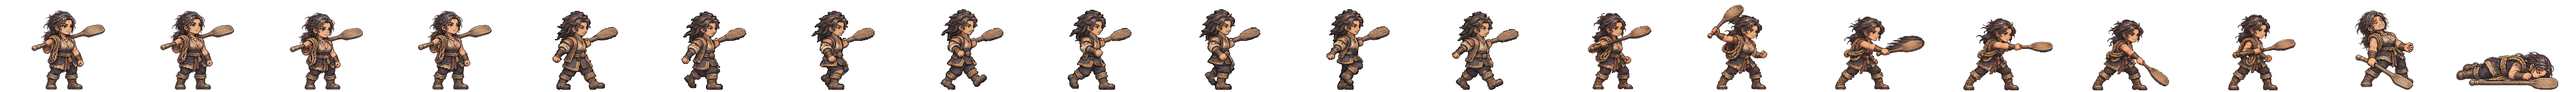
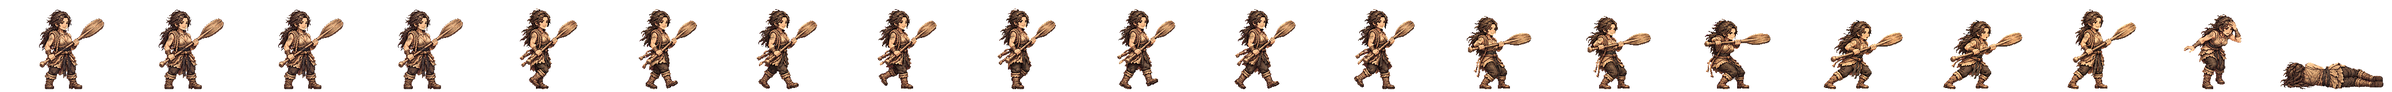
탐라 너울 새 전투 띠를 게임에 넣음(서기·걷기·나무 노 찌르기 여덟 칸·쓰러짐·밧줄 고쳐 감기)
띠 검사 합격 · 공격 끝 칸 키 138 = 서기 138 · 걷기는 머리 상자 묶기가 한 칸에서 얼굴을 잘못 잡아 얼굴 안쪽만 묶음

Claude-Session: https://claude.ai/code/session_01TRiuN7s6aDfSnaHxrkctmU

Changed region(s): [[0.0, 0.0625, 1.0, 1.0]]

diff --git a/src/realm/data/spritePx.ts b/src/realm/data/spritePx.ts
@@ -1,3 +1,3 @@
 /** public/realm/anim-px/manifest.json 의 사본 — tools/sprite-normalize.mjs 가 만든다 (손으로 고치지 말 것). 칸 [가로, 세로] · feet = 발 줄(칸 위에서 y) · bodyPx = 서 있는 몸 키 */
 import { expandManifest } from './sprite-manifest.ts'
-export const SPRITE_PX: Readonly<Record<string, { readonly cell: readonly [number, number]; readonly feet: number; readonly bodyPx: number; readonly kind: 'general' | 'soldier' | 'folk' | 'crowd'; readonly cells: number }>> = expandManifest<{ readonly cell: readonly [number, number]; readonly feet: number; readonly bodyPx: number; readonly kind: 'general' | 'soldier' | 'folk' | 'crowd'; readonly cells: number }>([{"cell":[166,128],"feet":126,"bodyPx":124,"kind":"soldier","cells":20},{"cell":[116,128],"feet":126,"bodyPx":117,"kind":"soldier","cells":20},{"cell":[127,128],"feet":126,"bodyPx":116,"kind":"soldier","cells":20},{"cell":[269,128],"feet":126,"bodyPx":126,"kind":"soldier","cells":20},{"cell":[503,128],"feet":126,"bodyPx":127,"kind":"soldier","cells":20},{"cell":[614,128],"feet":126,"bodyPx":126,"kind":"soldier","cells":20},{"cell":[200,160],"feet":156,"bodyPx":138,"kind":"general","cells":20},{"cell":[208,160],"feet":155,"bodyPx":138,"kind":"general","cells":20},{"cell":[208,160],"feet":154,"bodyPx":138,"kind":"general","cells":20},{"cell":[304,160],"feet":155,"bodyPx":135,"kind":"general","cells":20},{"cell":[224,160],"feet":156,"bodyPx":139,"kind":"general","cells":20},{"cell":[184,160],"feet":156,"bodyPx":138,"kind":"general","cells":20},{"cell":[208,160],"feet":154,"bodyPx":136,"kind":"general","cells":20},{"cell":[240,160],"feet":156,"bodyPx":138,"kind":"general","cells":20},{"cell":[232,160],"feet":156,"bodyPx":138,"kind":"general","cells":20},{"cell":[208,160],"feet":156,"bodyPx":138,"kind":"general","cells":20},{"cell":[168,160],"feet":156,"bodyPx":138,"kind":"general","cells":20},{"cell":[192,160],"feet":156,"bodyPx":138,"kind":"general","cells":20},{"cell":[168,160],"feet":156,"bodyPx":124,"kind":"general","cells":20},{"cell":[216,160],"feet":156,"bodyPx":130,"kind":"general","cells":20},{"cell":[200,160],"feet":156,"bodyPx":116,"kind":"general","cells":20},{"cell":[200,160],"feet":156,"bodyPx":135,"kind":"general","cells":20},{"cell":[280,160],"feet":156,"bodyPx":138,"kind":"general","cells":20},{"cell":[232,160],"feet":155,"bodyPx":138,"kind":"general","cells":20},{"cell":[232,160],"feet":156,"bodyPx":134,"kind":"general","cells":20},{"cell":[144,160],"feet":156,"bodyPx":70,"kind":"general","cells":20},{"cell":[208,160],"feet":156,"bodyPx":70,"kind":"general","cells":20},{"cell":[192,160],"feet":156,"bodyPx":70,"kind":"general","cells":20},{"cell":[240,160],"feet":155,"bodyPx":138,"kind":"general","cells":20},{"cell":[160,160],"feet":156,"bodyPx":135,"kind":"general","cells":20},{"cell":[192,160],"feet":156,"bodyPx":128,"kind":"general","cells":20},{"cell":[224,160],"feet":155,"bodyPx":138,"kind":"general","cells":20},{"cell":[232,160],"feet":156,"bodyPx":139,"kind":"general","cells":20},{"cell":[216,160],"feet":156,"bodyPx":138,"kind":"general","cells":20},{"cell":[208,160],"feet":156,"bodyPx":134,"kind":"general","cells":20},{"cell":[176,160],"feet":156,"bodyPx":130,"kind":"general","cells":20},{"cell":[248,160],"feet":156,"bodyPx":138,"kind":"general","cells":20},{"cell":[248,160],"feet":155,"bodyPx":138,"kind":"general","cells":20},{"cell":[192,160],"feet":155,"bodyPx":138,"kind":"general","cells":20},{"cell":[192,160],"feet":156,"bodyPx":124,"kind":"general","cells":20},{"cell":[208,160],"feet":154,"bodyPx":131,"kind":"general","cells":20},{"cell":[256,160],"feet":156,"bodyPx":138,"kind":"general","cells":20},{"cell":[232,160],"feet":156,"bodyPx":73,"kind":"general","cells":20},{"cell":[256,160],"feet":155,"bodyPx":138,"kind":"general","cells":20},{"cell":[264,160],"feet":156,"bodyPx":138,"kind":"general","cells":20},{"cell":[224,160],"feet":156,"bodyPx":138,"kind":"general","cells":20},{"cell":[224,160],"feet":156,"bodyPx":128,"kind":"general","cells":20},{"cell":[176,160],"feet":156,"bodyPx":129,"kind":"general","cells":20},{"cell":[208,160],"feet":154,"bodyPx":139,"kind":"general","cells":20},{"cell":[208,160],"feet":156,"bodyPx":132,"kind":"general","cells":20},{"cell":[216,160],"feet":155,"bodyPx":138,"kind":"general","cells":20},{"cell":[184,160],"feet":156,"bodyPx":122,"kind":"general","cells":20},{"cell":[176,160],"feet":156,"bodyPx":138,"kind":"general","cells":20},{"cell":[280,160],"feet":155,"bodyPx":133,"kind":"general","cells":20},{"cell":[176,160],"feet":156,"bodyPx":70,"kind":"general","cells":20},{"cell":[186,128],"feet":126,"bodyPx":127,"kind":"soldier","cells":20},{"cell":[298,128],"feet":126,"bodyPx":126,"kind":"soldier","cells":20},{"cell":[82,128],"feet":126,"bodyPx":114,"kind":"folk","cells":8},{"cell":[134,128],"feet":126,"bodyPx":119,"kind":"soldier","cells":20},{"cell":[380,128],"feet":126,"bodyPx":124,"kind":"soldier","cells":20},{"cell":[114,128],"feet":126,"bodyPx":115,"kind":"soldier","cells":20},{"cell":[122,128],"feet":126,"bodyPx":114,"kind":"soldier","cells":20},{"cell":[254,128],"feet":126,"bodyPx":128,"kind":"soldier","cells":20},{"cell":[438,128],"feet":126,"bodyPx":126,"kind":"soldier","cells":20},{"cell":[88,128],"feet":126,"bodyPx":113,"kind":"folk","cells":8},{"cell":[100,128],"feet":126,"bodyPx":115,"kind":"folk","cells":8},{"cell":[108,128],"feet":126,"bodyPx":115,"kind":"folk","cells":8},{"cell":[63,128],"feet":126,"bodyPx":113,"kind":"folk","cells":8},{"cell":[69,96],"feet":96,"bodyPx":96,"kind":"crowd","cells":1},{"cell":[54,96],"feet":96,"bodyPx":96,"kind":"crowd","cells":1},{"cell":[47,96],"feet":96,"bodyPx":96,"kind":"crowd","cells":1},{"cell":[49,96],"feet":96,"bodyPx":96,"kind":"crowd","cells":1},{"cell":[57,96],"feet":96,"bodyPx":96,"kind":"crowd","cells":1},{"cell":[55,96],"feet":96,"bodyPx":96,"kind":"crowd","cells":1},{"cell":[45,96],"feet":96,"bodyPx":96,"kind":"crowd","cells":1},{"cell":[53,96],"feet":96,"bodyPx":96,"kind":"crowd","cells":1},{"cell":[64,96],"feet":96,"bodyPx":96,"kind":"crowd","cells":1},{"cell":[184,160],"feet":156,"bodyPx":124,"kind":"general","cells":20},{"cell":[184,160],"feet":156,"bodyPx":134,"kind":"general","cells":20},{"cell":[224,160],"feet":156,"bodyPx":133,"kind":"general","cells":20},{"cell":[192,160],"feet":156,"bodyPx":135,"kind":"general","cells":20},{"cell":[184,160],"feet":156,"bodyPx":137,"kind":"general","cells":20},{"cell":[216,160],"feet":156,"bodyPx":134,"kind":"general","cells":20},{"cell":[216,160],"feet":156,"bodyPx":132,"kind":"general","cells":20},{"cell":[288,160],"feet":156,"bodyPx":138,"kind":"general","cells":20},{"cell":[192,160],"feet":156,"bodyPx":118,"kind":"general","cells":20},{"cell":[192,160],"feet":156,"bodyPx":134,"kind":"general","cells":20},{"cell":[192,160],"feet":157,"bodyPx":139,"kind":"general","cells":20},{"cell":[184,160],"feet":156,"bodyPx":128,"kind":"general","cells":20},{"cell":[240,160],"feet":156,"bodyPx":128,"kind":"general","cells":20},{"cell":[184,160],"feet":156,"bodyPx":132,"kind":"general","cells":20},{"cell":[208,160],"feet":156,"bodyPx":123,"kind":"general","cells":20},{"cell":[208,160],"feet":154,"bodyPx":137,"kind":"general","cells":20},{"cell":[176,160],"feet":156,"bodyPx":116,"kind":"general","cells":20},{"cell":[272,160],"feet":156,"bodyPx":138,"kind":"general","cells":20},{"cell":[176,160],"feet":156,"bodyPx":122,"kind":"general","cells":20},{"cell":[232,160],"feet":156,"bodyPx":127,"kind":"general","cells":20},{"cell":[176,160],"feet":156,"bodyPx":137,"kind":"general","cells":20},{"cell":[184,160],"feet":156,"bodyPx":133,"kind":"general","cells":20}],[["axe",0],["bandit-chief",1],["bandit-club",2],["boat",3],["bow",4],["crossbow",5],["gen-adogan",6],["gen-alpyeong",7],["gen-ara",8],["gen-areum",8],["gen-aryeong",9],["gen-bakdal",6],["gen-baram",10],["gen-bdanbi",11],["gen-beom",12],["gen-beombal",11],["gen-beomi",13],["gen-bira",14],["gen-biryu",15],["gen-budeul",16],["gen-byeol",17],["gen-daemusin",18],["gen-daeso",19],["gen-dallae2",11],["gen-dalli",11],["gen-damul",20],["gen-danbi",15],["gen-dangung",17],["gen-darae",21],["gen-dokmudeom",7],["gen-duman",22],["gen-eomni",23],["gen-eureum",24],["gen-g-bow",25],["gen-g-spear",26],["gen-g-sword",27],["gen-gaennae",6],["gen-gamsil",28],["gen-gaon",29],["gen-geota",15],["gen-geumbawi",11],["gen-geumha",30],["gen-goeun",15],["gen-gom",31],["gen-gomok",15],["gen-gureum",28],["gen-guryema",17],["gen-gwaeyu",14],["gen-haebi",8],["gen-haedal",6],["gen-haesol",32],["gen-halla",7],["gen-heo",8],["gen-hneoul",11],["gen-hogong",33],["gen-hojin",15],["gen-horselord",34],["gen-hwalmi",35],["gen-hyeokgeose",17],["gen-hyeopbo",6],["gen-irang",15],["gen-jibaekho",36],["gen-jinha",37],["gen-jita",38],["gen-jumong",39],["gen-keundol",7],["gen-maehwa",40],["gen-maenun",17],["gen-malgalgi",41],["gen-mari",13],["gen-maro",36],["gen-maryeo",15],["gen-mdallae",32],["gen-mir",6],["gen-mount",42],["gen-mulbeom",43],["gen-mulsae",33],["gen-musoe",33],["gen-noeul",8],["gen-nuri",44],["gen-ocheongan",45],["gen-odi",37],["gen-odogan",6],["gen-ogan",17],["gen-oi",46],["gen-olddaeso",24],["gen-onjo",47],["gen-pidogan",15],["gen-sagong",48],["gen-sdallae",6],["gen-sincheongan",33],["gen-singwigan",33],["gen-sinneoul",8],["gen-sobeol",23],["gen-soebi",6],["gen-soebo",49],["gen-soenun",36],["gen-sogeumbi",50],["gen-songbi",45],["gen-songyang",51],["gen-sori",52],["gen-soseono",53],["gen-suro",17],["gen-tahae",6],["gen-tneoul",45],["gen-w-bow",25],["gen-w-spear",54],["gen-waechief",15],["gen-wan",33],["gen-yeodogan",15],["gen-yucheongan",15],["gen-yusugan",36],["horse",55],["marine",56],["migrant",57],["militia",58],["pike",59],["pirate-captain",60],["pirate-sword",61],["shield",62],["spear",63],["villager-builder",64],["villager-farmer",65],["villager-porter",66],["villager-woman",67],["crowd-b1",68],["crowd-b2",69],["crowd-b3",70],["crowd-b4",71],["crowd-b5",72],["crowd-b6",73],["crowd-f1",68],["crowd-f2",73],["crowd-f3",74],["crowd-f4",75],["crowd-f5",68],["crowd-f6",76],["gen-dalbit",15],["gen-base-g-07-drunk-warrior",17],["gen-base-g-40-anya-adan",15],["gen-base-w-13-young-archer",8],["gen-base-g-03-sea-trader",13],["gen-base-w-10-pirate-captain",48],["gen-base-w-64-miri-dallae",48],["gen-base-g-41-goja-bau",13],["gen-base-g-42-dokro-garam",44],["gen-base-g-09-farmer-conscript",33],["gen-base-w-02-goguryeo-lady",33],["gen-base-w-17-mahan-pearl-diver",8],["gen-base-g-17-saro-isageum",49],["gen-base-g-18-daegaya-king",77],["gen-base-g-35-dabeol-dalgu",15],["gen-base-g-19-sabeol-veteran",33],["gen-base-w-23-usisan-whale-queen",8],["gen-base-g-36-gammun-gamdol",45],["gen-base-g-20-samul-sea-lord",41],["gen-base-g-37-eumjeup-jeup",11],["gen-base-g-38-chopal-palmae",17],["gen-base-w-75-daegaya-soemoe",17],["gen-base-g-45-dabeol-deulgae",11],["gen-base-g-04-jinhan-giant",15],["gen-base-g-08-veteran",15],["gen-base-w-18-jinhan-salt-widow",15],["gen-base-w-12-court-dancer",78],["gen-base-w-83-gyeonji-beodeul",79],["gen-base-w-05-baekje-queen",80],["gen-base-w-21-baekje-court-dancer",11],["gen-base-g-01-master-smith",81],["gen-base-g-93-jomun-solgae",35],["gen-base-g-57-bihwa-neup",13],["gen-base-w-72-eumjeup-beol",8],["gen-base-w-102-garak-dana",33],["gen-base-g-68-baekje-onnuri",15],["gen-base-w-27-mokji-jinha",6],["gen-base-g-22-ungcheon-gomnae",6],["gen-base-g-23-sangdang-soedal",15],["gen-base-g-24-wansan-onsan",6],["gen-base-g-25-balla-keunmoe",33],["gen-base-g-61-heomcheuk-bawi",33],["gen-base-g-88-wander-soeul",45],["gen-base-w-14-feast-spy",6],["gen-base-g-12-silla-youth",82],["gen-base-w-08-mahan-warrior",8],["gen-base-g-62-beonye-hanul",13],["gen-base-g-63-heomcheuk-beogeum",15],["gen-base-g-84-wander-seoneul",15],["gen-base-w-50-siljik-mulga",33],["gen-base-g-46-uga-nureongso",33],["gen-base-w-80-usan-gangchi",13],["gen-base-g-47-guga-sanyanggae",33],["gen-base-w-76-gampyeong-baetsagong",36],["gen-base-g-05-mahan-chieftain",83],["gen-base-g-58-usan-uhae",15],["gen-base-g-27-maek-maekdol",15],["gen-base-w-53-hwanna-gabi",16],["gen-base-w-29-golpo-janmul",36],["gen-base-g-53-baekje-haeru",6],["gen-base-w-71-yeonna-neoul",13],["gen-base-w-79-yangmaek-solmae",33],["gen-base-w-34-chopal-deulme",44],["gen-base-g-44-maga-malgup",84],["gen-base-w-31-dabeol-dalbit",48],["gen-base-g-51-biryuna-mulgyeol",45],["gen-base-g-48-gwanna-musoe",15],["gen-base-g-32-uga-sodu",14],["gen-base-g-49-goguryeo-sona",85],["gen-base-g-30-gwanna-soemoe",45],["gen-base-g-52-tamna-oreum",11],["gen-base-g-29-yeonna-myeongsol",39],["gen-base-w-56-dongokjeo-sogeum",86],["gen-base-g-54-mokji-mahan",14],["gen-base-g-33-jeoga-metdol",17],["gen-base-w-36-baekje-maena",17],["gen-base-w-38-sangdang-bulmae",6],["gen-base-w-39-gosaburi-galmae",87],["gen-base-w-40-mujin-munui",49],["gen-base-w-41-hwanna-beodeul",88],["gen-base-w-43-uga-nuri",41],["gen-base-w-45-tamna-oreumbi",11],["gen-base-g-60-golbeol-golgae",11],["gen-base-g-61-apdok-ap",33],["gen-base-g-62-gammun-gamnamu",6],["gen-base-g-63-chopal-yeoul",36],["gen-base-g-64-michuhol-sogeumkkun",13],["gen-base-g-65-sangdang-soemangchi",45],["gen-base-g-66-geonma-malbalgup",89],["gen-base-g-67-gosaburi-buri",90],["gen-base-g-68-mujin-bitgoeul",11],["gen-base-g-69-goryong-yong",45],["gen-base-g-70-siljik-pado",13],["gen-base-w-81-byeokjin-byeolbit",14],["gen-base-w-46-geonma-maru",36],["gen-base-w-48-mujin-mudeung",13],["gen-base-g-26-gampyeong-gaetbeol",14],["gen-base-g-60-eupcha-hangyeol",91],["gen-base-g-15-shaman-man",33],["gen-base-g-85-wander-ure",36],["gen-base-g-43-hwanna-amnok",15],["gen-base-g-50-bullae-gwaha",80],["gen-base-g-55-saro-bakdal",15],["gen-base-g-56-haseulla-gwahama",6],["gen-base-w-06-buyeo-huntress",92],["gen-base-w-22-dongye-tiger-huntress",8],["gen-base-w-25-bihwa-priestess",33],["gen-base-w-24-apdok-queen",11],["gen-base-w-61-iseo-sinae",15],["gen-base-w-26-iseo-tomboy-general",8],["gen-base-g-59-yangmaek-maekson",93],["gen-aw1-haebi",45],["gen-aw1-soseono",94],["gen-aw1-gamsil",11],["gen-aw1-mir",52],["gen-aw1-dangung",6],["gen-aw1-ara",45],["gen-aw1-jumong",95],["gen-aw1-onjo",96],["gen-aw1-base-w-83-gyeonji-beodeul",17],["gen-aw1-heo",44],["gen-aw1-base-g-38-chopal-palmae",6],["gen-aw1-base-w-25-bihwa-priestess",78],["gen-aw1-sori",16],["gen-aw1-gomok",6],["gen-aw1-irang",17],["gen-aw1-budeul",16],["gen-aw1-gom",13],["gen-aw1-sdallae",6],["gen-aw1-base-w-13-young-archer",6],["gen-aw1-base-w-36-baekje-maena",97],["gen-aw1-base-g-09-farmer-conscript",44],["gen-aw1-base-w-02-goguryeo-lady",98],["gen-aw1-haedal",11],["gen-aw1-hogong",6],["gen-aw1-maehwa",52],["gen-aw1-base-w-06-buyeo-huntress",14],["gen-aw1-base-w-08-mahan-warrior",45],["gen-aw1-base-w-29-golpo-janmul",45],["gen-aw1-base-w-31-dabeol-dalbit",17],["gen-aw1-base-w-38-sangdang-bulmae",16],["gen-aw1-bira",33],["gen-aw1-base-w-53-hwanna-gabi",16],["gen-aw1-base-w-56-dongokjeo-sogeum",52],["gen-aw1-base-w-72-eumjeup-beol",17],["gen-aw1-bdanbi",16],["gen-aw1-beom",11],["gen-aw1-beombal",11],["gen-aw1-byeol",17],["gen-aw1-dalli",52],["gen-aw1-malgalgi",36],["gen-aw1-sincheongan",33]])
+export const SPRITE_PX: Readonly<Record<string, { readonly cell: readonly [number, number]; readonly feet: number; readonly bodyPx: number; readonly kind: 'general' | 'soldier' | 'folk' | 'crowd'; readonly cells: number }>> = expandManifest<{ readonly cell: readonly [number, number]; readonly feet: number; readonly bodyPx: number; readonly kind: 'general' | 'soldier' | 'folk' | 'crowd'; readonly cells: number }>([{"cell":[166,128],"feet":126,"bodyPx":124,"kind":"soldier","cells":20},{"cell":[116,128],"feet":126,"bodyPx":117,"kind":"soldier","cells":20},{"cell":[127,128],"feet":126,"bodyPx":116,"kind":"soldier","cells":20},{"cell":[269,128],"feet":126,"bodyPx":126,"kind":"soldier","cells":20},{"cell":[503,128],"feet":126,"bodyPx":127,"kind":"soldier","cells":20},{"cell":[614,128],"feet":126,"bodyPx":126,"kind":"soldier","cells":20},{"cell":[200,160],"feet":156,"bodyPx":138,"kind":"general","cells":20},{"cell":[208,160],"feet":155,"bodyPx":138,"kind":"general","cells":20},{"cell":[208,160],"feet":154,"bodyPx":138,"kind":"general","cells":20},{"cell":[304,160],"feet":155,"bodyPx":135,"kind":"general","cells":20},{"cell":[224,160],"feet":156,"bodyPx":139,"kind":"general","cells":20},{"cell":[184,160],"feet":156,"bodyPx":138,"kind":"general","cells":20},{"cell":[208,160],"feet":154,"bodyPx":136,"kind":"general","cells":20},{"cell":[240,160],"feet":156,"bodyPx":138,"kind":"general","cells":20},{"cell":[232,160],"feet":156,"bodyPx":138,"kind":"general","cells":20},{"cell":[208,160],"feet":156,"bodyPx":138,"kind":"general","cells":20},{"cell":[168,160],"feet":156,"bodyPx":138,"kind":"general","cells":20},{"cell":[192,160],"feet":156,"bodyPx":138,"kind":"general","cells":20},{"cell":[168,160],"feet":156,"bodyPx":124,"kind":"general","cells":20},{"cell":[216,160],"feet":156,"bodyPx":130,"kind":"general","cells":20},{"cell":[200,160],"feet":156,"bodyPx":116,"kind":"general","cells":20},{"cell":[200,160],"feet":156,"bodyPx":135,"kind":"general","cells":20},{"cell":[280,160],"feet":156,"bodyPx":138,"kind":"general","cells":20},{"cell":[232,160],"feet":155,"bodyPx":138,"kind":"general","cells":20},{"cell":[232,160],"feet":156,"bodyPx":134,"kind":"general","cells":20},{"cell":[144,160],"feet":156,"bodyPx":70,"kind":"general","cells":20},{"cell":[208,160],"feet":156,"bodyPx":70,"kind":"general","cells":20},{"cell":[192,160],"feet":156,"bodyPx":70,"kind":"general","cells":20},{"cell":[240,160],"feet":155,"bodyPx":138,"kind":"general","cells":20},{"cell":[160,160],"feet":156,"bodyPx":135,"kind":"general","cells":20},{"cell":[192,160],"feet":156,"bodyPx":128,"kind":"general","cells":20},{"cell":[224,160],"feet":155,"bodyPx":138,"kind":"general","cells":20},{"cell":[232,160],"feet":156,"bodyPx":139,"kind":"general","cells":20},{"cell":[216,160],"feet":156,"bodyPx":138,"kind":"general","cells":20},{"cell":[208,160],"feet":156,"bodyPx":134,"kind":"general","cells":20},{"cell":[176,160],"feet":156,"bodyPx":130,"kind":"general","cells":20},{"cell":[248,160],"feet":156,"bodyPx":138,"kind":"general","cells":20},{"cell":[248,160],"feet":155,"bodyPx":138,"kind":"general","cells":20},{"cell":[192,160],"feet":155,"bodyPx":138,"kind":"general","cells":20},{"cell":[192,160],"feet":156,"bodyPx":124,"kind":"general","cells":20},{"cell":[208,160],"feet":154,"bodyPx":131,"kind":"general","cells":20},{"cell":[256,160],"feet":156,"bodyPx":138,"kind":"general","cells":20},{"cell":[232,160],"feet":156,"bodyPx":73,"kind":"general","cells":20},{"cell":[256,160],"feet":155,"bodyPx":138,"kind":"general","cells":20},{"cell":[264,160],"feet":156,"bodyPx":138,"kind":"general","cells":20},{"cell":[224,160],"feet":156,"bodyPx":138,"kind":"general","cells":20},{"cell":[224,160],"feet":156,"bodyPx":128,"kind":"general","cells":20},{"cell":[176,160],"feet":156,"bodyPx":129,"kind":"general","cells":20},{"cell":[208,160],"feet":154,"bodyPx":139,"kind":"general","cells":20},{"cell":[208,160],"feet":156,"bodyPx":132,"kind":"general","cells":20},{"cell":[216,160],"feet":155,"bodyPx":138,"kind":"general","cells":20},{"cell":[184,160],"feet":156,"bodyPx":122,"kind":"general","cells":20},{"cell":[176,160],"feet":156,"bodyPx":138,"kind":"general","cells":20},{"cell":[280,160],"feet":155,"bodyPx":133,"kind":"general","cells":20},{"cell":[176,160],"feet":156,"bodyPx":70,"kind":"general","cells":20},{"cell":[186,128],"feet":126,"bodyPx":127,"kind":"soldier","cells":20},{"cell":[298,128],"feet":126,"bodyPx":126,"kind":"soldier","cells":20},{"cell":[82,128],"feet":126,"bodyPx":114,"kind":"folk","cells":8},{"cell":[134,128],"feet":126,"bodyPx":119,"kind":"soldier","cells":20},{"cell":[380,128],"feet":126,"bodyPx":124,"kind":"soldier","cells":20},{"cell":[114,128],"feet":126,"bodyPx":115,"kind":"soldier","cells":20},{"cell":[122,128],"feet":126,"bodyPx":114,"kind":"soldier","cells":20},{"cell":[254,128],"feet":126,"bodyPx":128,"kind":"soldier","cells":20},{"cell":[438,128],"feet":126,"bodyPx":126,"kind":"soldier","cells":20},{"cell":[88,128],"feet":126,"bodyPx":113,"kind":"folk","cells":8},{"cell":[100,128],"feet":126,"bodyPx":115,"kind":"folk","cells":8},{"cell":[108,128],"feet":126,"bodyPx":115,"kind":"folk","cells":8},{"cell":[63,128],"feet":126,"bodyPx":113,"kind":"folk","cells":8},{"cell":[69,96],"feet":96,"bodyPx":96,"kind":"crowd","cells":1},{"cell":[54,96],"feet":96,"bodyPx":96,"kind":"crowd","cells":1},{"cell":[47,96],"feet":96,"bodyPx":96,"kind":"crowd","cells":1},{"cell":[49,96],"feet":96,"bodyPx":96,"kind":"crowd","cells":1},{"cell":[57,96],"feet":96,"bodyPx":96,"kind":"crowd","cells":1},{"cell":[55,96],"feet":96,"bodyPx":96,"kind":"crowd","cells":1},{"cell":[45,96],"feet":96,"bodyPx":96,"kind":"crowd","cells":1},{"cell":[53,96],"feet":96,"bodyPx":96,"kind":"crowd","cells":1},{"cell":[64,96],"feet":96,"bodyPx":96,"kind":"crowd","cells":1},{"cell":[184,160],"feet":156,"bodyPx":124,"kind":"general","cells":20},{"cell":[184,160],"feet":156,"bodyPx":134,"kind":"general","cells":20},{"cell":[224,160],"feet":156,"bodyPx":133,"kind":"general","cells":20},{"cell":[192,160],"feet":156,"bodyPx":135,"kind":"general","cells":20},{"cell":[184,160],"feet":156,"bodyPx":137,"kind":"general","cells":20},{"cell":[216,160],"feet":156,"bodyPx":134,"kind":"general","cells":20},{"cell":[216,160],"feet":156,"bodyPx":132,"kind":"general","cells":20},{"cell":[288,160],"feet":156,"bodyPx":138,"kind":"general","cells":20},{"cell":[192,160],"feet":156,"bodyPx":118,"kind":"general","cells":20},{"cell":[192,160],"feet":156,"bodyPx":134,"kind":"general","cells":20},{"cell":[192,160],"feet":157,"bodyPx":139,"kind":"general","cells":20},{"cell":[184,160],"feet":156,"bodyPx":128,"kind":"general","cells":20},{"cell":[240,160],"feet":156,"bodyPx":128,"kind":"general","cells":20},{"cell":[184,160],"feet":156,"bodyPx":132,"kind":"general","cells":20},{"cell":[208,160],"feet":156,"bodyPx":123,"kind":"general","cells":20},{"cell":[208,160],"feet":154,"bodyPx":137,"kind":"general","cells":20},{"cell":[176,160],"feet":156,"bodyPx":116,"kind":"general","cells":20},{"cell":[272,160],"feet":156,"bodyPx":138,"kind":"general","cells":20},{"cell":[176,160],"feet":156,"bodyPx":122,"kind":"general","cells":20},{"cell":[232,160],"feet":156,"bodyPx":127,"kind":"general","cells":20},{"cell":[176,160],"feet":156,"bodyPx":137,"kind":"general","cells":20},{"cell":[184,160],"feet":156,"bodyPx":133,"kind":"general","cells":20}],[["axe",0],["bandit-chief",1],["bandit-club",2],["boat",3],["bow",4],["crossbow",5],["gen-adogan",6],["gen-alpyeong",7],["gen-ara",8],["gen-areum",8],["gen-aryeong",9],["gen-bakdal",6],["gen-baram",10],["gen-bdanbi",11],["gen-beom",12],["gen-beombal",11],["gen-beomi",13],["gen-bira",14],["gen-biryu",15],["gen-budeul",16],["gen-byeol",17],["gen-daemusin",18],["gen-daeso",19],["gen-dallae2",11],["gen-dalli",11],["gen-damul",20],["gen-danbi",15],["gen-dangung",17],["gen-darae",21],["gen-dokmudeom",7],["gen-duman",22],["gen-eomni",23],["gen-eureum",24],["gen-g-bow",25],["gen-g-spear",26],["gen-g-sword",27],["gen-gaennae",6],["gen-gamsil",28],["gen-gaon",29],["gen-geota",15],["gen-geumbawi",11],["gen-geumha",30],["gen-goeun",15],["gen-gom",31],["gen-gomok",15],["gen-gureum",28],["gen-guryema",17],["gen-gwaeyu",14],["gen-haebi",8],["gen-haedal",6],["gen-haesol",32],["gen-halla",7],["gen-heo",8],["gen-hneoul",11],["gen-hogong",33],["gen-hojin",15],["gen-horselord",34],["gen-hwalmi",35],["gen-hyeokgeose",17],["gen-hyeopbo",6],["gen-irang",15],["gen-jibaekho",36],["gen-jinha",37],["gen-jita",38],["gen-jumong",39],["gen-keundol",7],["gen-maehwa",40],["gen-maenun",17],["gen-malgalgi",41],["gen-mari",13],["gen-maro",36],["gen-maryeo",15],["gen-mdallae",32],["gen-mir",6],["gen-mount",42],["gen-mulbeom",43],["gen-mulsae",33],["gen-musoe",33],["gen-noeul",8],["gen-nuri",44],["gen-ocheongan",45],["gen-odi",37],["gen-odogan",6],["gen-ogan",17],["gen-oi",46],["gen-olddaeso",24],["gen-onjo",47],["gen-pidogan",15],["gen-sagong",48],["gen-sdallae",6],["gen-sincheongan",33],["gen-singwigan",33],["gen-sinneoul",8],["gen-sobeol",23],["gen-soebi",6],["gen-soebo",49],["gen-soenun",36],["gen-sogeumbi",50],["gen-songbi",45],["gen-songyang",51],["gen-sori",52],["gen-soseono",53],["gen-suro",17],["gen-tahae",6],["gen-tneoul",8],["gen-w-bow",25],["gen-w-spear",54],["gen-waechief",15],["gen-wan",33],["gen-yeodogan",15],["gen-yucheongan",15],["gen-yusugan",36],["horse",55],["marine",56],["migrant",57],["militia",58],["pike",59],["pirate-captain",60],["pirate-sword",61],["shield",62],["spear",63],["villager-builder",64],["villager-farmer",65],["villager-porter",66],["villager-woman",67],["crowd-b1",68],["crowd-b2",69],["crowd-b3",70],["crowd-b4",71],["crowd-b5",72],["crowd-b6",73],["crowd-f1",68],["crowd-f2",73],["crowd-f3",74],["crowd-f4",75],["crowd-f5",68],["crowd-f6",76],["gen-dalbit",15],["gen-base-g-07-drunk-warrior",17],["gen-base-g-40-anya-adan",15],["gen-base-w-13-young-archer",8],["gen-base-g-03-sea-trader",13],["gen-base-w-10-pirate-captain",48],["gen-base-w-64-miri-dallae",48],["gen-base-g-41-goja-bau",13],["gen-base-g-42-dokro-garam",44],["gen-base-g-09-farmer-conscript",33],["gen-base-w-02-goguryeo-lady",33],["gen-base-w-17-mahan-pearl-diver",8],["gen-base-g-17-saro-isageum",49],["gen-base-g-18-daegaya-king",77],["gen-base-g-35-dabeol-dalgu",15],["gen-base-g-19-sabeol-veteran",33],["gen-base-w-23-usisan-whale-queen",8],["gen-base-g-36-gammun-gamdol",45],["gen-base-g-20-samul-sea-lord",41],["gen-base-g-37-eumjeup-jeup",11],["gen-base-g-38-chopal-palmae",17],["gen-base-w-75-daegaya-soemoe",17],["gen-base-g-45-dabeol-deulgae",11],["gen-base-g-04-jinhan-giant",15],["gen-base-g-08-veteran",15],["gen-base-w-18-jinhan-salt-widow",15],["gen-base-w-12-court-dancer",78],["gen-base-w-83-gyeonji-beodeul",79],["gen-base-w-05-baekje-queen",80],["gen-base-w-21-baekje-court-dancer",11],["gen-base-g-01-master-smith",81],["gen-base-g-93-jomun-solgae",35],["gen-base-g-57-bihwa-neup",13],["gen-base-w-72-eumjeup-beol",8],["gen-base-w-102-garak-dana",33],["gen-base-g-68-baekje-onnuri",15],["gen-base-w-27-mokji-jinha",6],["gen-base-g-22-ungcheon-gomnae",6],["gen-base-g-23-sangdang-soedal",15],["gen-base-g-24-wansan-onsan",6],["gen-base-g-25-balla-keunmoe",33],["gen-base-g-61-heomcheuk-bawi",33],["gen-base-g-88-wander-soeul",45],["gen-base-w-14-feast-spy",6],["gen-base-g-12-silla-youth",82],["gen-base-w-08-mahan-warrior",8],["gen-base-g-62-beonye-hanul",13],["gen-base-g-63-heomcheuk-beogeum",15],["gen-base-g-84-wander-seoneul",15],["gen-base-w-50-siljik-mulga",33],["gen-base-g-46-uga-nureongso",33],["gen-base-w-80-usan-gangchi",13],["gen-base-g-47-guga-sanyanggae",33],["gen-base-w-76-gampyeong-baetsagong",36],["gen-base-g-05-mahan-chieftain",83],["gen-base-g-58-usan-uhae",15],["gen-base-g-27-maek-maekdol",15],["gen-base-w-53-hwanna-gabi",16],["gen-base-w-29-golpo-janmul",36],["gen-base-g-53-baekje-haeru",6],["gen-base-w-71-yeonna-neoul",13],["gen-base-w-79-yangmaek-solmae",33],["gen-base-w-34-chopal-deulme",44],["gen-base-g-44-maga-malgup",84],["gen-base-w-31-dabeol-dalbit",48],["gen-base-g-51-biryuna-mulgyeol",45],["gen-base-g-48-gwanna-musoe",15],["gen-base-g-32-uga-sodu",14],["gen-base-g-49-goguryeo-sona",85],["gen-base-g-30-gwanna-soemoe",45],["gen-base-g-52-tamna-oreum",11],["gen-base-g-29-yeonna-myeongsol",39],["gen-base-w-56-dongokjeo-sogeum",86],["gen-base-g-54-mokji-mahan",14],["gen-base-g-33-jeoga-metdol",17],["gen-base-w-36-baekje-maena",17],["gen-base-w-38-sangdang-bulmae",6],["gen-base-w-39-gosaburi-galmae",87],["gen-base-w-40-mujin-munui",49],["gen-base-w-41-hwanna-beodeul",88],["gen-base-w-43-uga-nuri",41],["gen-base-w-45-tamna-oreumbi",11],["gen-base-g-60-golbeol-golgae",11],["gen-base-g-61-apdok-ap",33],["gen-base-g-62-gammun-gamnamu",6],["gen-base-g-63-chopal-yeoul",36],["gen-base-g-64-michuhol-sogeumkkun",13],["gen-base-g-65-sangdang-soemangchi",45],["gen-base-g-66-geonma-malbalgup",89],["gen-base-g-67-gosaburi-buri",90],["gen-base-g-68-mujin-bitgoeul",11],["gen-base-g-69-goryong-yong",45],["gen-base-g-70-siljik-pado",13],["gen-base-w-81-byeokjin-byeolbit",14],["gen-base-w-46-geonma-maru",36],["gen-base-w-48-mujin-mudeung",13],["gen-base-g-26-gampyeong-gaetbeol",14],["gen-base-g-60-eupcha-hangyeol",91],["gen-base-g-15-shaman-man",33],["gen-base-g-85-wander-ure",36],["gen-base-g-43-hwanna-amnok",15],["gen-base-g-50-bullae-gwaha",80],["gen-base-g-55-saro-bakdal",15],["gen-base-g-56-haseulla-gwahama",6],["gen-base-w-06-buyeo-huntress",92],["gen-base-w-22-dongye-tiger-huntress",8],["gen-base-w-25-bihwa-priestess",33],["gen-base-w-24-apdok-queen",11],["gen-base-w-61-iseo-sinae",15],["gen-base-w-26-iseo-tomboy-general",8],["gen-base-g-59-yangmaek-maekson",93],["gen-aw1-haebi",45],["gen-aw1-soseono",94],["gen-aw1-gamsil",11],["gen-aw1-mir",52],["gen-aw1-dangung",6],["gen-aw1-ara",45],["gen-aw1-jumong",95],["gen-aw1-onjo",96],["gen-aw1-base-w-83-gyeonji-beodeul",17],["gen-aw1-heo",44],["gen-aw1-base-g-38-chopal-palmae",6],["gen-aw1-base-w-25-bihwa-priestess",78],["gen-aw1-sori",16],["gen-aw1-gomok",6],["gen-aw1-irang",17],["gen-aw1-budeul",16],["gen-aw1-gom",13],["gen-aw1-sdallae",6],["gen-aw1-base-w-13-young-archer",6],["gen-aw1-base-w-36-baekje-maena",97],["gen-aw1-base-g-09-farmer-conscript",44],["gen-aw1-base-w-02-goguryeo-lady",98],["gen-aw1-haedal",11],["gen-aw1-hogong",6],["gen-aw1-maehwa",52],["gen-aw1-base-w-06-buyeo-huntress",14],["gen-aw1-base-w-08-mahan-warrior",45],["gen-aw1-base-w-29-golpo-janmul",45],["gen-aw1-base-w-31-dabeol-dalbit",17],["gen-aw1-base-w-38-sangdang-bulmae",16],["gen-aw1-bira",33],["gen-aw1-base-w-53-hwanna-gabi",16],["gen-aw1-base-w-56-dongokjeo-sogeum",52],["gen-aw1-base-w-72-eumjeup-beol",17],["gen-aw1-bdanbi",16],["gen-aw1-beom",11],["gen-aw1-beombal",11],["gen-aw1-byeol",17],["gen-aw1-dalli",52],["gen-aw1-malgalgi",36],["gen-aw1-sincheongan",33]])

diff --git a/src/duel/view.ts b/src/duel/view.ts
@@ -100,7 +100,7 @@ const crowdFront = [1, 2, 3, 4, 5, 6].map((i) => img(`realm/duel/crowd/b${i}.png
 const crowdReady = (set: HTMLImageElement[]): boolean => set.every((im) => im.complete && im.naturalWidth > 0)
 const pxMode = cfg.px !== false && params.get('px') !== '0'
 /** 겨루기 전용 옛 띠(duel/sprites) 대신 열전과 같은 도트 띠(anim-px)를 쓰는 장수 — 두 판에서 같은 모습 · 서기 계획·쓰러지는 칸도 같다 (11-23 범 · 매화 · 달빛 · 11-24 해비 · 아룸) */
-const PX_DUEL: ReadonlySet<string> = new Set(['beom', 'maehwa', 'base-w-31-dabeol-dalbit', 'haebi', 'areum', 'base-w-13-young-archer', 'base-w-10-pirate-captain', 'base-w-17-mahan-pearl-diver', 'base-w-06-buyeo-huntress', 'base-w-64-miri-dallae', 'ara', 'base-w-22-dongye-tiger-huntress', 'noeul', 'sagong', 'sinneoul', 'heo', 'base-w-08-mahan-warrior', 'base-w-23-usisan-whale-queen', 'base-w-26-iseo-tomboy-general', 'base-w-72-eumjeup-beol'])
+const PX_DUEL: ReadonlySet<string> = new Set(['beom', 'maehwa', 'base-w-31-dabeol-dalbit', 'haebi', 'areum', 'base-w-13-young-archer', 'base-w-10-pirate-captain', 'base-w-17-mahan-pearl-diver', 'base-w-06-buyeo-huntress', 'base-w-64-miri-dallae', 'ara', 'base-w-22-dongye-tiger-huntress', 'noeul', 'sagong', 'sinneoul', 'heo', 'base-w-08-mahan-warrior', 'base-w-23-usisan-whale-queen', 'base-w-26-iseo-tomboy-general', 'base-w-72-eumjeup-beol', 'tneoul'])
 /** 띠 그림 — 기본은 anim-px(도트 규격) 먼저, 없으면 옛 띠로 (img 의 onerror 가 갈아 끼운다) */
 const strip = (s: string): HTMLImageElement => pxMode
   ? DUEL_ATLASES[s] !== undefined && !PX_DUEL.has(s) ? img(`realm/duel/sprites/gen-${s}.png`, `realm/anim-px/gen-${s}.png`)

diff --git a/src/tune/params.ts b/src/tune/params.ts
@@ -1439,6 +1439,7 @@ export const HAEBI_IDLE = {
     'base-w-23-usisan-whale-queen': { cells: 34, base: [0, 1], hold: 2.4, fall: [18, 20, 21, 19], quirk: [22, 23, 24, 25], quirkTimes: [.3, .32, .4, .28], attack: { cells: [26, 27, 28, 29, 30, 31, 32, 33], times: [.09, .08, .11, .05, .15, .07, .08, .12], hit: 4 }, xGeom: { h: 224, root: 92, foot: 216 } },
     'base-w-26-iseo-tomboy-general': { cells: 34, base: [0, 1], hold: 2.4, fall: [18, 20, 21, 19], quirk: [22, 23, 24, 25], quirkTimes: [.3, .32, .4, .28], attack: { cells: [26, 27, 28, 29, 30, 31, 32, 33], times: [.09, .08, .11, .05, .15, .07, .08, .12], hit: 4 }, xGeom: { h: 224, root: 92, foot: 216 } },
     'base-w-72-eumjeup-beol': { cells: 34, base: [0, 1], hold: 2.4, fall: [18, 20, 21, 19], quirk: [22, 23, 24, 25], quirkTimes: [.3, .32, .4, .28], attack: { cells: [26, 27, 28, 29, 30, 31, 32, 33], times: [.09, .08, .11, .05, .15, .07, .08, .12], hit: 4 }, xGeom: { h: 224, root: 92, foot: 216 } },
+    tneoul: { cells: 34, base: [0, 1], hold: 2.4, fall: [18, 20, 21, 19], quirk: [22, 23, 24, 25], quirkTimes: [.3, .32, .4, .28], attack: { cells: [26, 27, 28, 29, 30, 31, 32, 33], times: [.09, .08, .11, .05, .15, .07, .08, .12], hit: 4 }, xGeom: { h: 224, root: 92, foot: 216 } },
   },
 } as const
 export const HAEBI_ANIM = {

diff --git a/tools/sprite-kit/anim-harness.py b/tools/sprite-kit/anim-harness.py
@@ -51,6 +51,7 @@ HEROES = {
     'whaleq': dict(strip='gen-base-w-23-usisan-whale-queen', atk='thrust', atk8=True, act=True, legacy=(('a', 2), ('a', 3), ('b', 3), ('b', 4))),   # 우시산 고래 여왕(미늘 작살 · 우람한 뼈대)
     'tomboy': dict(strip='gen-base-w-26-iseo-tomboy-general', atk='thrust', atk8=True, act=True, legacy=(('a', 2), ('a', 3), ('b', 3), ('b', 4))),   # 이서 말괄량이 장군(창 · 우람한 뼈대)
     'beol': dict(strip='gen-base-w-72-eumjeup-beol', atk='slash', atk8=True, act=True, legacy=(('a', 1), ('a', 3), ('b', 2), ('b', 4))),   # 음즙 벌(한 손 칼 · 우람한 뼈대) · 좁은 칸은 아라처럼 덜 뻗은 칸
+    'tneoul': dict(strip='gen-tneoul', atk='thrust', atk8=True, act=True, legacy=(('a', 2), ('a', 3), ('b', 3), ('b', 4)), lock='face'),   # 탐라 너울(두 손 나무 노 · 가슴 L) · 머리 상자 묶기는 b-2 에서 얼굴 자리를 잘못 잡아 머리가 둘이 됐다(11-24) → 얼굴 안쪽만
     'haebi': dict(strip='gen-haebi', atk='chop', atk8=True, act=True),   # act = 공격 여덟 칸이 넓은 동작 칸(240×224 · 뿌리 92 · 발 줄 216)
     'areum': dict(strip='gen-areum', atk='slam', atk8=True, act=True, lock='none'),   # 받은 그림 그대로(얼굴을 떠다 붙이지 않는다 — 11-24: 뭉친 얼굴이 여덟 칸에 퍼졌다) · 옛 lock='face': 메가 머리 뒤로 지나간다 — 머리 상자는 메를 자르고(「포스터」), 윗몸을 통째로 묶으면 떠다닌다(11-24 형) → 얼굴 안쪽만 묶는다
 }
